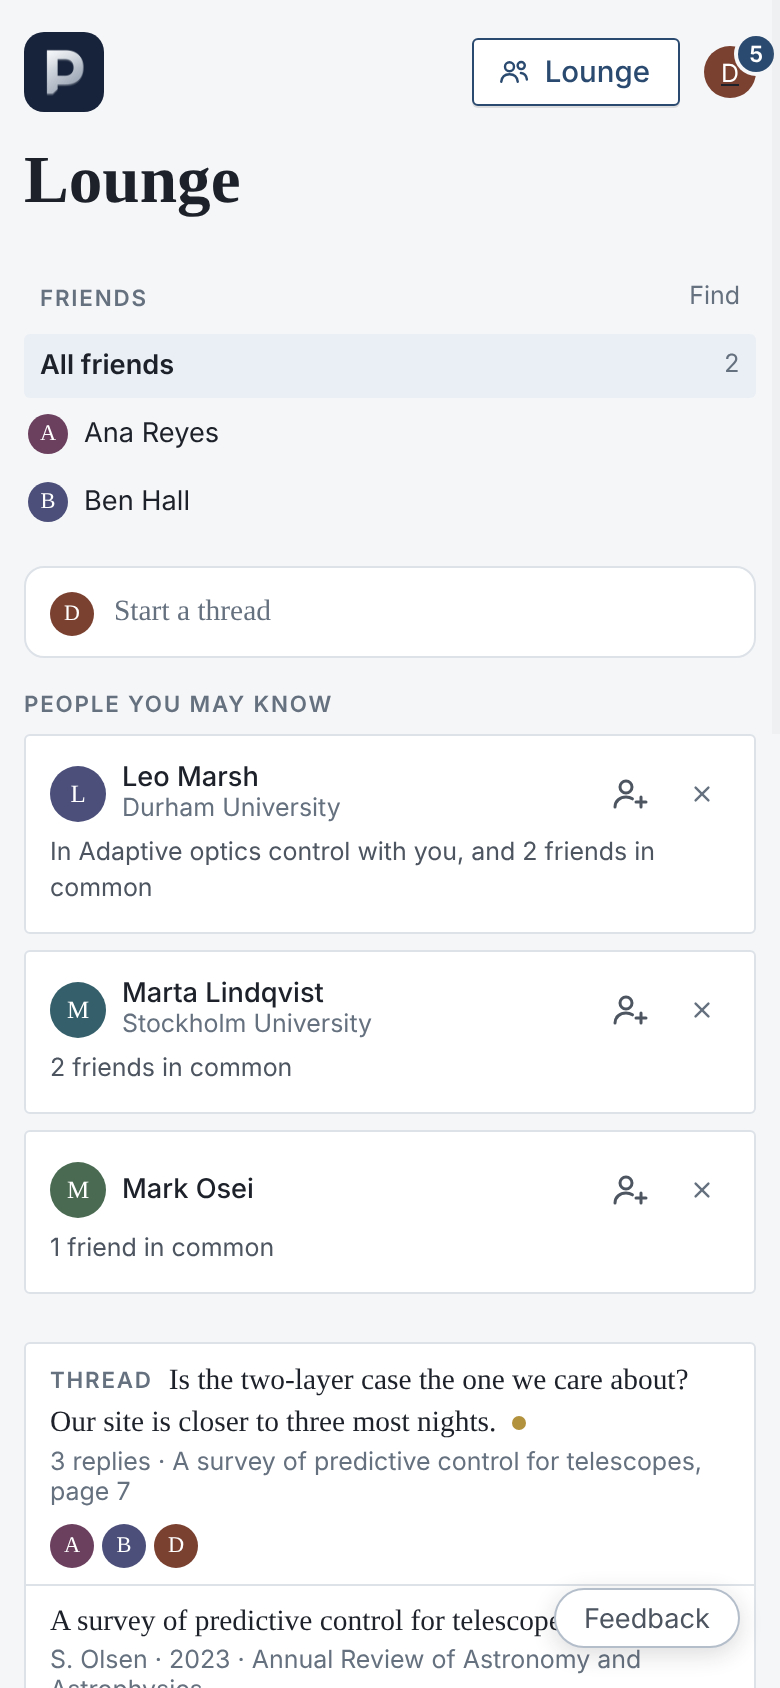
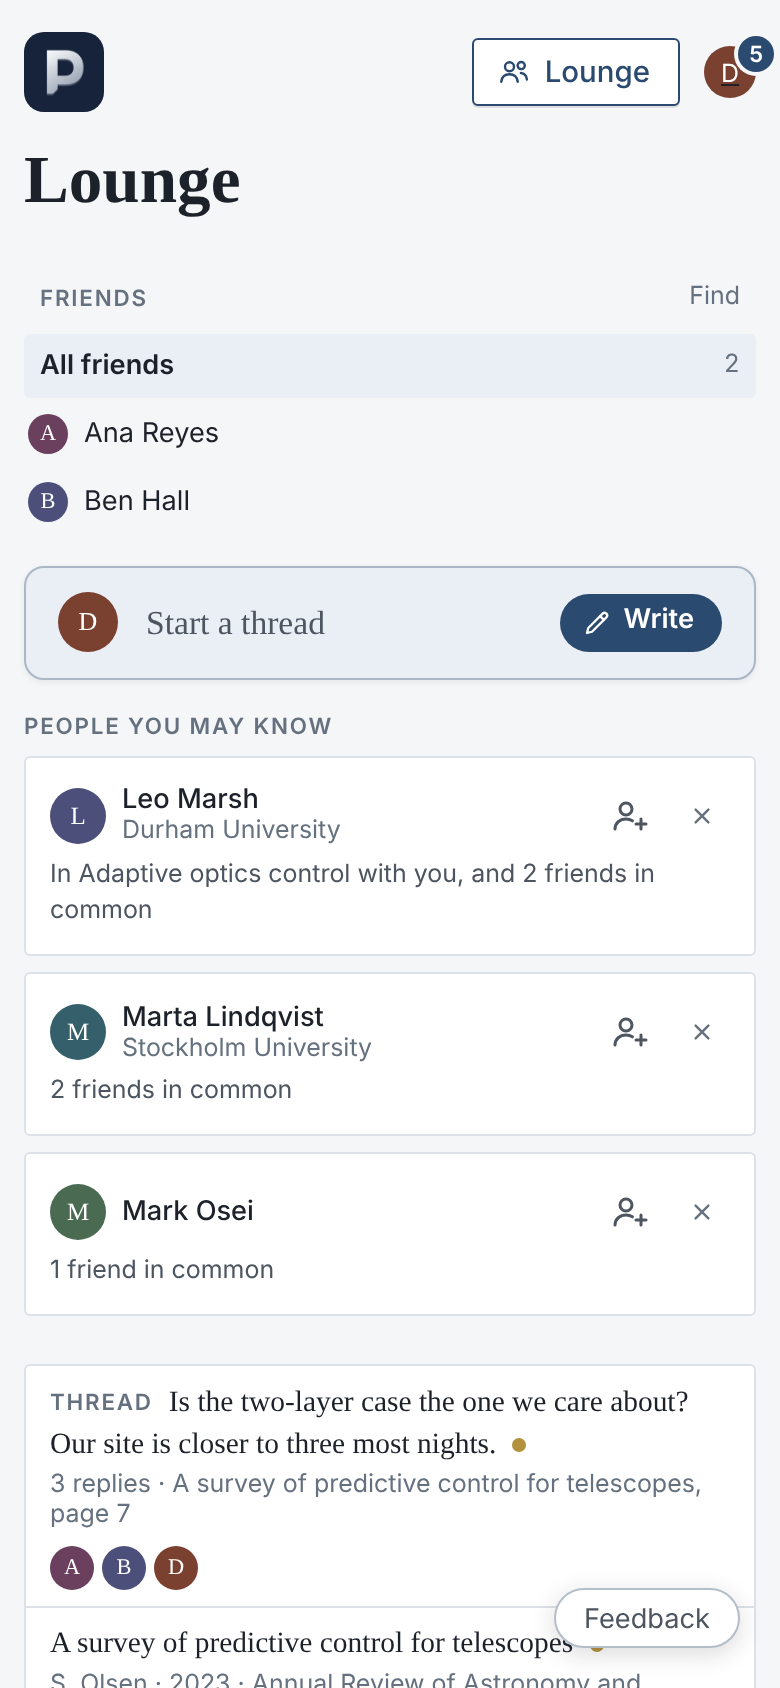
The Lounge's resting box invites writing: a tinted line with a Write button
Claude-Session: https://claude.ai/code/session_01PQZzMW8x3HqxwqPCdqeFh5

diff --git a/shared/applicationStyles.js b/shared/applicationStyles.js
@@ -6127,7 +6127,15 @@ ${talkStyles}
    top, what is attached under them, then the bar: formatting and
    attaching on the left, sending on the right. */
 .thread-composer { display: grid; gap: var(--space-2); margin: 0 0 var(--space-4); padding: var(--space-3); border: 1px solid var(--line-strong); border-radius: var(--radius-lg); background: var(--card); }
-.thread-composer:not(.is-open) { padding-block: var(--space-2); border-color: var(--line); cursor: text; }
+.thread-composer:not(.is-open) { padding: var(--space-3) var(--space-4); border-color: color-mix(in srgb, var(--accent) 28%, var(--line)); background: var(--accent-soft); box-shadow: var(--shadow-sm); cursor: text; transition: border-color .15s, box-shadow .15s; }
+.thread-composer:not(.is-open):hover { border-color: var(--accent); box-shadow: 0 2px 10px rgb(0 0 0 / .1); }
+.thread-composer:not(.is-open) .thread-composer-write { grid-template-columns: 30px minmax(0, 1fr) auto; align-items: center; gap: var(--space-3); }
+.thread-composer:not(.is-open) .mini-avatar { width: 30px; height: 30px; margin-top: 0; font-size: 13px; }
+.thread-composer:not(.is-open) .md-field { font-size: var(--fs-lg); overflow: hidden; white-space: nowrap; }
+@media (max-width: 560px) { .thread-composer:not(.is-open) .md-field[data-empty]::before { content: 'Start a thread'; } }
+.thread-composer:not(.is-open) .md-field[data-empty]::before { color: var(--ink-soft); }
+.thread-composer-cue { display: inline-flex; align-items: center; gap: 6px; padding: 7px 14px 7px 11px; border-radius: 999px; background: var(--accent); color: var(--card); font: 600 var(--fs-sm)/1 var(--font-ui); cursor: pointer; }
+.thread-composer-cue svg { width: 15px; height: 15px; fill: none; stroke: currentColor; stroke-width: 1.8; stroke-linecap: round; stroke-linejoin: round; }
 .thread-composer.is-open .md-field { min-height: 3.2em; }
 .thread-composer:focus-within { border-color: var(--accent); box-shadow: 0 0 0 2px var(--focus-soft); }
 .thread-composer.is-over { border-style: dashed; border-color: var(--accent); background: var(--accent-soft); }

diff --git a/frontend/src/components/ThreadComposer.jsx b/frontend/src/components/ThreadComposer.jsx
@@ -170,9 +170,15 @@ export default function ThreadComposer({ currentUser, onStarted }) {
       <div className="thread-composer-write">
         <Face user={currentUser} />
         <MarkdownField
-          ref={field} rows={1} value={words} maxLength={appLimits.text.thread_words} placeholder="Start a thread" aria-label="Start a thread"
+          ref={field} rows={1} value={words} maxLength={appLimits.text.thread_words} placeholder={open ? 'Start a thread' : 'Start a thread with your friends'} aria-label="Start a thread"
           onChange={(event) => setWords(event.target.value)} onKeyDown={keyDown} onPaste={pasted}
         />
+        {!open && (
+          <span className="thread-composer-cue" aria-hidden="true" onMouseDown={(event) => { event.preventDefault(); field.current?.focus(); }}>
+            <svg viewBox="0 0 24 24"><path d="M4 20l1-4L16.5 4.5a2.1 2.1 0 0 1 3 3L8 19l-4 1z" /><path d="M14.5 6.5l3 3" /></svg>
+            Write
+          </span>
+        )}
       </div>
 
       {files.length > 0 && (

diff --git a/USER_STORIES.md b/USER_STORIES.md
@@ -240,7 +240,7 @@ A friend is someone I chose, who chose me back. Friendship is the third audience
 **Threads**
 
 - **US-10.18** **I can send what I select in a paper to the Lounge.** Words I selected, a passage I painted or a clip I cut are sent from the same Send button that sends them to a board: its sheet's *Send to* has a **Lounge** button, in the Lounge's gold, beside the list of my boards; whichever I pick is lit, and the sheet takes words of my own if I have any (*My words*, optional). Once sent, the sheet says so and offers the way to the Lounge, and nothing more. What I send starts a **thread**: the passage or the picture, the paper's title, a link that opens the paper at that place with the passage lit, and my words. Free talk about a place in a paper: it has no phase, no votes and no counts of approval.
-- **US-10.18a** **I can start a thread in the Lounge itself.** The Lounge opens with a box, *Start a thread*: one quiet line at rest, which opens with its bar when I click into it and closes again if I leave it empty. What I write there is formatted as I type, and a bar under it puts the marks in for me: bold, italic, strikethrough, code, a link, a bulleted or numbered list, a quote (⌘B, ⌘I and ⌘K do the first three I would reach for). From the same bar, by pasting, or by dropping them on the box, I attach **pictures and files**: up to 8, each up to 25 MB, each uploaded as I add it and removable before I send. Sent, it is a thread from no paper, the room's newest row at once. Its row shows my words as one plain line and says what is attached; its jacket shows my words formatted, the pictures (each opening whole), and the files by name to open, with no passage, no paper and nothing to open in one. Words, attachments or both make a thread. It is seen and replied to as any thread is (US-10.20), and what I attached goes when I remove it. The box is there once I have a friend to read it.
+- **US-10.18a** **I can start a thread in the Lounge itself.** The Lounge opens with a box, *Start a thread*: one line at rest, softly tinted, with a *Write* button, which opens with its bar when I click into it and closes again if I leave it empty. What I write there is formatted as I type, and a bar under it puts the marks in for me: bold, italic, strikethrough, code, a link, a bulleted or numbered list, a quote (⌘B, ⌘I and ⌘K do the first three I would reach for). From the same bar, by pasting, or by dropping them on the box, I attach **pictures and files**: up to 8, each up to 25 MB, each uploaded as I add it and removable before I send. Sent, it is a thread from no paper, the room's newest row at once. Its row shows my words as one plain line and says what is attached; its jacket shows my words formatted, the pictures (each opening whole), and the files by name to open, with no passage, no paper and nothing to open in one. Words, attachments or both make a thread. It is seen and replied to as any thread is (US-10.20), and what I attached goes when I remove it. The box is there once I have a friend to read it.
 - **US-10.19** **A thread is one row in the Lounge**, marked *Thread*: the sender's words (or the passage, when they wrote none), the paper and page, how many replies, and the faces of everyone who spoke in it. Pressing it opens the thread's **jacket**, a page of its own at `/thread/<uuid>` as a paper and a board have: the passage as a quotation (or the clip), who sent it and when, the paper and page with **Open in the paper** leading to that place, everything said in order, and a box to **reply**. Its Back leads to the Lounge, wherever the jacket was opened from. My own threads are in my Lounge too, so I read the replies. A thread started, or a reply by someone else, wears the gold dot until I have opened the Lounge. *Threads* in the rail's Show narrows the room to them.
 - **US-10.20** **A thread is seen by its sender's friends and nobody else**, and whoever sees it can reply; every reply is seen by all of them, friends of mine or not. It lives in the Lounge alone: nothing is drawn on the paper, on my copy or on anyone's. Its sender removes it, replies and all; a reply is taken back by whoever wrote it. A thread stays in the room for a month after the last thing said in it.
 
